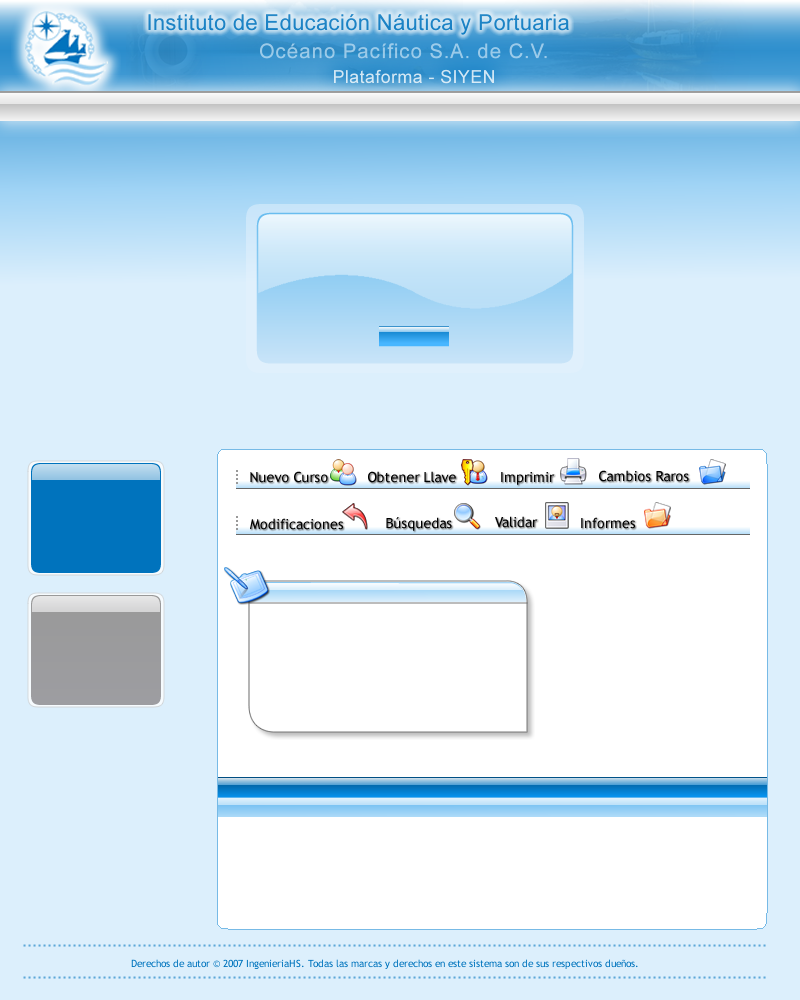
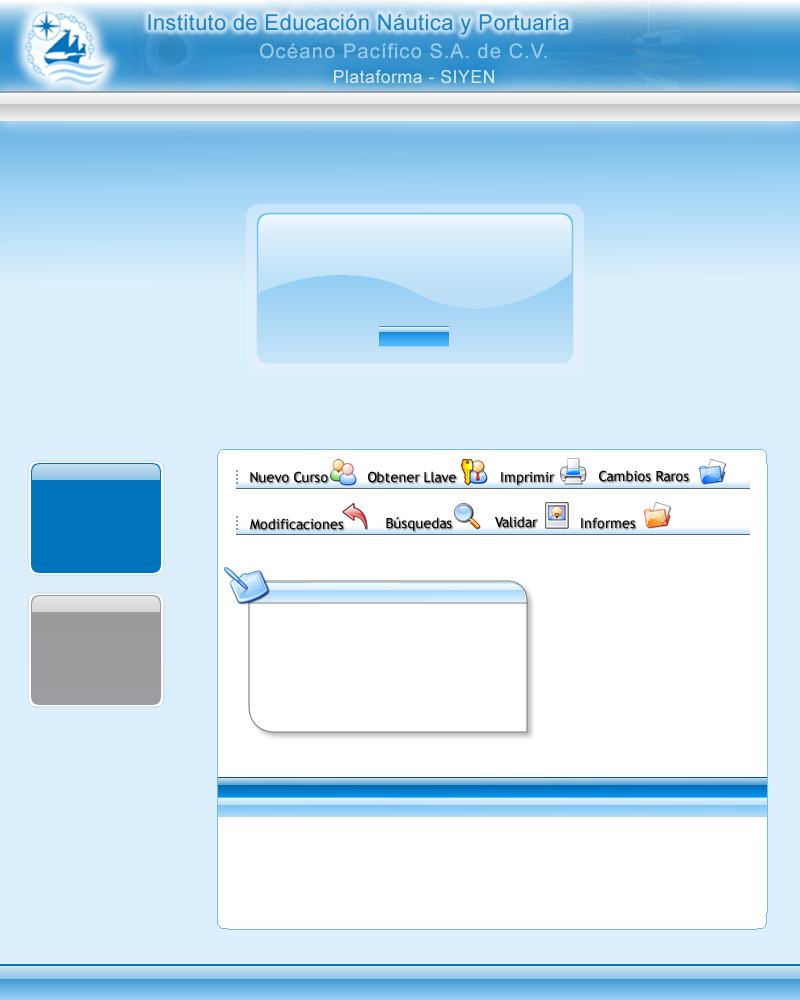
uso del servicio de busqueda paginada de cursosSinCertificar y ajuste en la hoja de estilo...
git-svn-id: http://192.168.1.94/svn@600 d43fff5d-296d-41c8-bd8c-7388abecf751

Changed region(s): [[0.0, 0.961, 1.0, 1.0]]

diff --git a/siyen_2010/trunk/modules/siyen-web/src/main/webapp/css/ienpop.css b/siyen_2010/trunk/modules/siyen-web/src/main/webapp/css/ienpop.css
@@ -1,3 +1,6 @@
+html{
+	background: none repeat scroll 0 0 #DCEFFC ;
+}
 body {
 	font-family: "Gill Sans", "MS Trebuchet", sans-serif;
 	background-color: #DCEFFC;
@@ -113,21 +116,21 @@ body {
 }
 
 #ft {
-	background: #C9C9C9 url("../img/mail_loseventosde_r12_c2.jpg") repeat-x;
-	position: relative;
+	background: #99D0F4 url("../img/layout_r5_c1.jpg") repeat-x;
+	position: absolute;
 	bottom: 0px;
 	width: 100%;
-	height: 46px;
+	height: 36px;
 }
 
 #ft p {
 	text-align: center;
 	font-size: 12px;
-	color: #666666;
+	color: #FFFFFF;
 	padding-top: 1px;
 }
 
 #ft p a {
-	color: #365820;
+	color: #FFFFFF;
 	text-decoration: none;
 }

diff --git a/siyen_2010/trunk/modules/siyen-web/src/main/java/edu/ienpop/mvc/controllers/CursoSinCertificarController.java b/siyen_2010/trunk/modules/siyen-web/src/main/java/edu/ienpop/mvc/controllers/CursoSinCertificarController.java
@@ -1,30 +1,44 @@
 package edu.ienpop.mvc.controllers;
 
+import java.util.List;
+
+import org.apache.commons.lang.builder.ToStringBuilder;
 import org.springframework.beans.factory.annotation.Autowired;
 import org.springframework.stereotype.Controller;
 import org.springframework.ui.ModelMap;
 import org.springframework.web.bind.annotation.RequestMapping;
+import org.springframework.web.bind.annotation.RequestParam;
 
-import edu.ienpop.dao.CursoSinCertificarDao;
+import edu.ienpop.model.CursoCriteria;
+import edu.ienpop.model.CursoSinCertificar;
+import edu.ienpop.service.CursoSinCertificarService;
 
 @Controller
 @RequestMapping("/cursoSinCertificar")
 public class CursoSinCertificarController {
-	
-	//private CursoSinCertificarService cursoSinCertificarService;
-	@Autowired
-	private CursoSinCertificarDao cursoSinCertificarDao;
-	
-	@RequestMapping("/borrar/$id")
-    public String borrarCursoSinCertificar() {
-        
-        return "borrado...";
-    }
-	
-	@RequestMapping("/ver")
-    public String verCursosSinCertificar(ModelMap model) {
-        model.addAttribute("cursosSinCertificar", cursoSinCertificarDao.findAll());
-        return "cursoSinCertificar/lista";
-    }
 
+	// private CursoSinCertificarService cursoSinCertificarService;
+	@Autowired
+	private CursoSinCertificarService cursoSinCertificarService;
+
+	@RequestMapping("/borrar/$id")
+	public String borrarCursoSinCertificar() {
+
+		return "borrado...";
+	}
+
+	@RequestMapping("/ver")
+	public String verCursosSinCertificar(
+			@RequestParam(defaultValue = "0", required = true, value = "offset") int offset,
+			@RequestParam(defaultValue = "10", required = true, value = "maxSize") int maxSize,
+			ModelMap model) {
+		CursoCriteria cursoCriteria = new CursoCriteria();
+		List<CursoSinCertificar> cursos = cursoSinCertificarService
+		.obtenerCursosConCriteria(cursoCriteria, offset, maxSize);
+		System.out.println(ToStringBuilder.reflectionToString(cursos));
+		model.addAttribute("cursosSinCertificar", cursos);
+		model.addAttribute("contadorCursosSinCertificar", cursoSinCertificarService
+				.obtenerContadorDeCursosSinCertificar(cursoCriteria));
+		return "cursoSinCertificar/lista";
+	}
 }
